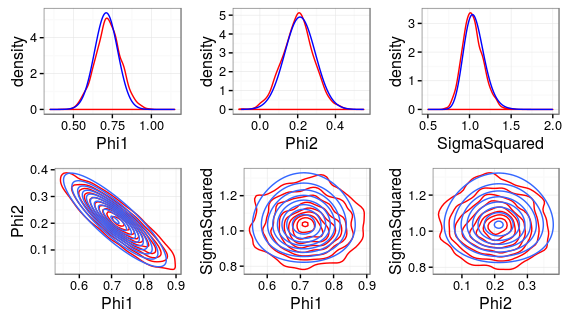
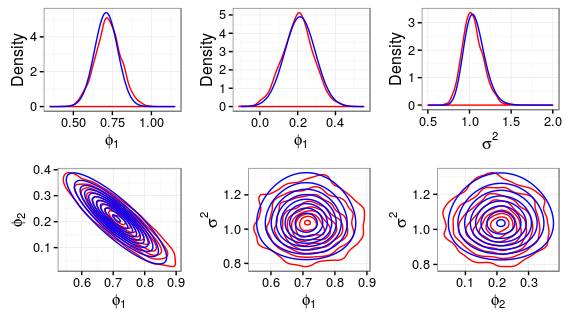
final tweaks before draft submission

diff --git a/Confirmation/confirmation_V2.tex b/Confirmation/confirmation_V2.tex
@@ -96,7 +96,7 @@ There are many types of MCMC algorithms, with arguably the simplest and most com
 &\vdots \nonumber \\
 &p(\theta_k | \theta_1, \dots, \theta_{k-1}, y_{1:T}). \nonumber
 \end{align}
-Under mild regularity conditions (see, e.g., \citet{Tierney1994}) and with enough iterations of the Markov chain that results from the Gibbs sampler, these samples converge in distribution to $p(\boldsymbol{\theta} | y_{1:T})$ and can be used for forecasting and inference about the unknown parameters. The computation time for each iteration and the overall number of iterations required to accruately summarise the posterior distribution is problem specific and typically increases with the number of parameters in the model. On occasion, the full conditional distribution can not be recognised and a Metropolis-Hastings-within-Gibbs step can be used, see \citet{Gilks1995} for details.
+Under mild regularity conditions (see, e.g., \citet{Tierney1994}) and with enough iterations of the Markov chain that results from the Gibbs sampler, these samples converge in distribution to $p(\boldsymbol{\theta} | y_{1:T})$. Samples taken before the MCMC converges ot the posterior must be discarded, and the remaining samples may have strong dependence between consecutive draws of the same parameter due to the Markov nature of the algorithm. The computation time for each iteration and the overall number of iterations required to accruately summarise the posterior distribution is problem specific and typically increases with the number of parameters in the model. On occasion, the full conditional distribution can not be recognised and a Metropolis-Hastings-within-Gibbs step can be used, see \citet{Gilks1995} for details.
 
 For illustration, consider data $y_t$ for $t = 1, \dots, T$ generated independently from a $\mathcal{N}(\mu, \sigma^2)$ distribution with prior distributions given by $\mu | \sigma^2 \sim \mathcal{N}(\gamma, \sigma^2/\tau)$ and $\sigma^2 \sim Inv.Gamma(\mbox{shape} = \alpha, \mbox{scale =}\beta)$. It can be shown that
 
@@ -172,12 +172,12 @@ $\tilde{\gamma}$ and $\tilde{\alpha}$ are omitted from the mean field equations 
 As (\ref{mf9}) and (\ref{mf10}) contain a circular dependence, fitting the MFVB approximation requires an algorithm that cycles between these equations until the change in the ELBO is less than some pre-specified small constant $\epsilon$. This algorithm is known as a coordiant ascent, and is described by Algorithm (\ref{alg:algorithm1}). At each step coordinate ascent will fix one parameter and then maximise the ELBO with respect to the other parameter, so that changes in parameters results in a non-decreasing sequence of ELBO values. Coordinate ascent converges only when neither parameter can be changed independently to increase the ELBO by more than $\epsilon$, and hence reaches a local maximum.
 The current theory for Variational Bayes does not offer any insight to the shape of the ELBO so determining if the algorithm converges to a local or global maximum is difficult. One option to alleiviate this problem is to start the algorithm at a range of initial values and choose parameter values with the maximum converged ELBO, and hence lowest KL divergence to the true posterior. 
 
-Figure (\ref{fig:norminvg}) compares the simulated posterior densities from Section (\ref{sec:MCMC}), (red) with the approximation from Mean Field Variational Bayes (blue) and the analytically available true posterior marginal densities (black). For both parameters all three densities are indistinguishable.
+Data was simulated according to the Gaussian model introduced in Section (\ref{sec:MCMC}) with $T = 100, \mu = 2 and \sigma^2 = 1$. The hyperparameters were set to $\gamma = 0, \tau = 1, \alpha = 1$ and $\beta = 1$. Figure (\ref{fig:norminvg}) compares the analytically available true posterior marginal densities for both $\mu$ and $\sigma^2$ (black) with the densities generated by the Monte Carlo sampler (red) and the approximation from Mean Field Variational Bayes (blue). For both parameters all three densities are indistinguishable.
 
 \begin{figure}[h]
 \centering
-\includegraphics[width=0.5\linewidth,height=\textheight,keepaspectratio]{norminvg}
-\caption{Marginal posterior densities for the model described in Section (\ref{sec:MCMC}). The true density is in black, the Monte Carlo simulation is red and the MFVB approximation is blue. Both MCMC and MFVB fit this density extremely well.}
+\includegraphics[width=0.7\linewidth,height=\textheight,keepaspectratio]{norminvg}
+\caption{Marginal posterior densities for the model described in Section (\ref{sec:MCMC}). The true density is in black, the Monte Carlo sampler is red and the MFVB approximation is blue. Both MCMC and MFVB fit this density extremely well.}
 \label{fig:norminvg}
 \end{figure}
 
@@ -274,34 +274,14 @@ p(\theta_1, \dots, \theta_k) = p(\theta_1) \dots p(\theta_k) c(P(\theta_1), \dot
 \end{equation}
 where $p(\theta)$ is a pdf, $P(\theta)$ is a cdf, and $c(\cdot)$ is a copula. 
 
-This idea is extended by the vine copula, a technique to factorise a high-dimensional copula into a set of bivariate copulas, see \citet{Joe2014} and references within. A vine copula is represented by a series of trees, where the top-most tree is a graph that contains each variable as a node. The edges in each tree then form the nodes in the tree below, which are connect by an edge only if the associated edges in the previous tree connected to the same node. This sequence is continued or a $k$ dimensional $\boldsymbol{\theta}$ until the $(k-1)'th$ tree is reached that contains only one edge. Each of the $k(k-1)/2$ edges represents a bivariate copula between the two unique parameters in the connected nodes, conditioned on every parameter appearing in both nodes. Refer to Figure (\ref{fig:vinecop}) for an example.
+This idea is extended by the vine copula, a technique to factorise a high-dimensional copula into a set of bivariate copulas, see \citet{Joe2014} and references within. A vine copula is represented by a series of trees, where the top-most tree is a graph that contains each variable as a node. The edges in each tree then form the nodes in the tree below, which are connected by an edge only if the associated edges in the previous tree shared the same node. This sequence is continued or a $k$ dimensional $\boldsymbol{\theta}$ until the $(k-1)'th$ tree is reached that contains only one edge. Each of the $k(k-1)/2$ edges represents a bivariate copula between the two unique parameters in the connected nodes, conditioned on every parameter appearing in both nodes. Refer to Figure (\ref{fig:vinecop}) for an example.
 
-\iffalse
 \begin{figure}[h]
 \centering
-\tikz{ %
-    \node[latent] (theta1) {$\theta_1$} ; %
-    \node[latent, right = of theta1] (theta2) {$\theta_2}$} ; %
-    \node[latent, above = of theta2] (theta3) {$\theta_3$} ; %
-    \node[latent, below = of theta2] (theta4) {$\theta_4$} ; %
-    \edge{theta1} {theta2} ; %
-    \edge{theta2} {theta3} ; %
-    \edge{theta2} {theta4} ; %
-    
-    \node[latent, below = of theta4] (theta2theta3) {$\theta_2 \theta_3$} ; %
-    \node[latent, left = of theta2theta3] (theta1theta2) {$\theta_1 \theta_2$} ; %
-    \node[latent, right = of theta2theta3] (theta2theta4) {$\theta_2 \theta_4$} ; %
-    \edge{theta2theta3} {theta1theta2} ; %
-    \edge{theta2theta3} {theta2theta4} ; %
-    
-    \node[latent, below = of theta1theta2] (t1t3t2) {$\theta_1 \theta_3 | \theta_2$} ; %
-    \node[latent, right = of t1t3t2] (t3t4t2) {$\theta_3 \theta_4 | \theta_2$} ; %
-    \edge{t1t3t2} {t3t4t2} ;%
-}
-\caption{An example of a Vine Copula over four variables. The edges in the top tree contains unconditional bivariate copulas between the parameters on the connected nodes. The second tree contains the bivariate copulas for $\theta_1 \theta_3 | \theta_2$ and for $\theta_3 \theta_4 | \theta_2$, the conditioning on $\theta_2$ caused by its appearance in each connected node. The edge in the final tree contains the bivariate copula for $\theta_1, \theta_4 | \theta_2, \theta_3$, as both $\theta_2$ and $\theta_3$ appear in the connected nodes.
+\includegraphics[width=0.4\linewidth,height=\textheight,keepaspectratio]{vines.png}
+\caption{An example of a Vine Copula over four variables. The edges in the top tree represent unconditional bivariate copulas between the parameters on the connected nodes. The second tree edges represent the bivariate copulas for $\theta_1 \theta_3 | \theta_2$ and for $\theta_3 \theta_4 | \theta_2$, the conditioning on $\theta_2$ caused by its appearance in each connected node. The edge in the final tree represents the bivariate copula for $\theta_1, \theta_4 | \theta_2, \theta_3$, as both $\theta_2$ and $\theta_3$ appear in the connected nodes.}
 \label{fig:vinecop}
 \end{figure}
-\fi
 
 The resulting vine copula greatly increases the amount of flexibility available to model dependency in a distribution, but the cardinality of the set of possible vine structures and choices of family for each bivariate copula is exponential in the number of parameters, so without detailed problem specific information the application of a vine copula to Stochastic Variational Bayes is difficult. \citet{Tran2015} implements Variational Bayes with a vine copula in what they call Copula Variational Bayes, but the dimension of $\boldsymbol{\theta}$ was small in that case allowing an exhaustive search for the vine copula that maximised the ELBO. 
 
@@ -328,7 +308,8 @@ The likelihood of parameters $\boldsymbol{\theta} = (\phi_1, \phi_2, \sigma^2)'$
 \begin{align}
 \label{likelihood}
 L(\theta | y_{1:T}) &= p(y_1, y_2 | \theta) \prod_{t=3}^{T}p(y_t | y_{1:t-1}, \theta) \nonumber \\
-&= \frac{1}{(2\pi)} |\Sigma|^{-1/2} \sigma^{-(T-2)} \exp \left\{ \frac{-1}{2} \left( (y_1, y_2)' \Sigma^{-1} (y_1, y_2) + \frac{1}{\sigma^2} \sum_{t=3}^{T}(y_t - \phi_1 y_{t-1} - \phi_2 y_{t-2})^2 \right) \right\}.
+&= \frac{1}{(2\pi)} |\Sigma|^{-1/2} \sigma^{-(T-2)} \exp \left\{ \frac{-1}{2} (y_1, y_2) \Sigma^{-1} (y_1, y_2)' \right\} \nonumber \\
+&\times \exp \left\{ \frac{-1}{2\sigma^2} \left( \sum_{t=3}^{T}(y_t - \phi_1 y_{t-1} - \phi_2 y_{t-2})^2 \right) \right\}.
 \end{align}
 
 We assume that the prior distribution, is given by
@@ -451,7 +432,7 @@ The benefits of rapidly updating parameters will be increased in situations wher
 
 A contribution of this thesis is the use of information generated by MCMC to develop a Vine Copula used by the approximating distribution in Stochastic Variational Bayes, but updating state-space models by SVB requires an approximation for latent states associated with newly observed data that have not been included in the most recent MCMC sample. In this case, the dependence for the new latent state must be extrapolated from the copula structure used for previous latent states, which may be sub-optimal. The robustness of SVB approximations to mis-specified paramater dependence should be investigated.
 
-Finally, Variational Bayes only becomes a viable method for forecast densities if the statistical error associated with using an approximate distribution is less than the statistical error associated with forecasting based on the MCMC generated posterior distribution that is not conditioned on the most recent data.
+Finally, Variational Bayes only becomes a viable method for density forecasts if the statistical error associated with using an approximate distribution is less than the statistical error associated with forecasting based on an MCMC generated posterior distribution that is not conditioned on the most recent data. The investigation of this trade-off is of central importance to the thesis. 
 
 \section{Timeline} \label{sec:Timeline}
 

diff --git a/Confirmation/vines.tex b/Confirmation/vines.tex
@@ -1,0 +1,86 @@
+\documentclass[12pt,a4paper]{article}%
+\usepackage[]{graphicx}\usepackage[]{color}
+%% maxwidth is the original width if it is less than linewidth
+%% otherwise use linewidth (to make sure the graphics do not exceed the margin)
+
+%2multibyte Version: 5.50.0.2960 CodePage: 1252
+\usepackage{amsfonts}
+\usepackage{amssymb}
+\usepackage[centertags]{amsmath}
+\usepackage{graphicx}%
+\usepackage{natbib}
+\usepackage{color}
+\usepackage[dvipsnames,svgnames*]{xcolor}
+\usepackage{array}
+\usepackage[hidelinks]{hyperref}
+\usepackage[font=small,skip=5pt]{caption}
+\usepackage[aboveskip=2pt]{subcaption}
+\usepackage{amsmath}
+\usepackage[]{algorithm2e}
+\usepackage{amsthm}
+\usepackage{url}
+\usepackage{wasysym}
+\usepackage{ulem}
+\usepackage{tikz}
+\usetikzlibrary{bayesnet}
+\usepackage{afterpage}
+\usepackage{bbm}
+\setcounter{MaxMatrixCols}{30}
+\providecommand{\U}[1]{\protect\rule{.1in}{.1in}}
+\newtheorem{theorem}{Theorem}
+\newtheorem{acknowledgement}[theorem]{Acknowledgement}
+\newtheorem{axiom}[theorem]{Axiom}
+\newtheorem{case}[theorem]{Case}
+\newtheorem{claim}[theorem]{Claim}
+\newtheorem{conclusion}[theorem]{Conclusion}
+\newtheorem{condition}[theorem]{Condition}
+\newtheorem{conjecture}[theorem]{Conjecture}
+\newtheorem{corollary}[theorem]{Corollary}
+\newtheorem{criterion}[theorem]{Criterion}
+\newtheorem{definition}[theorem]{Definition}
+\newtheorem{example}[theorem]{Example}
+\newtheorem{exercise}[theorem]{Exercise}
+\newtheorem{lemma}[theorem]{Lemma}
+\newtheorem{notation}[theorem]{Notation}
+\newtheorem{problem}[theorem]{Problem}
+\newtheorem{proposition}[theorem]{Proposition}
+\newtheorem{remark}[theorem]{Remark}
+\newtheorem{solution}[theorem]{Solution}
+\newtheorem{summary}[theorem]{Summary}
+\setlength{\topmargin}{0in}
+\setlength{\oddsidemargin}{0.1in}
+\setlength{\evensidemargin}{0.1in}
+\setlength{\textwidth}{6.5in}
+\setlength{\textheight}{8.25in}
+\numberwithin{equation}{section}
+\title{Real Time Variational Density Forecasting}
+\author{Nathaniel Tomasetti, Catherine Forbes and Anastasios Panagiotelis}
+\begin{document}
+
+\begin{figure}[h]
+\centering
+\tikz{ %
+    \node[latent] (theta1) {$\theta_1$} ; %
+    \node[latent, right = of theta1] (theta2) {$\theta_2$} ; %
+    \node[latent, right = of theta2] (theta3) {$\theta_3$} ; %
+    \node[latent, below = of theta2] (theta4) {$\theta_4$} ; %
+    \edge [-] {theta1, theta3, theta4}  {theta2} ; %
+    %\edge{theta2} {theta3} ; %
+    %\edge{theta2} {theta4} ; %
+    
+    \node[latent, below = of theta4] (theta2theta3) {$\theta_2 \theta_3$} ; %
+    \node[latent, left = of theta2theta3] (theta1theta2) {$\theta_1 \theta_2$} ; %
+    \node[latent, right = of theta2theta3] (theta2theta4) {$\theta_2 \theta_4$} ; %
+    \edge [-] {theta1theta2, theta2theta4} {theta2theta3} ; %
+    %\edge{theta2theta3} {theta2theta4} ; %
+    
+    \node[latent, below = of theta1theta2] (t1t3t2) {$\theta_1 \theta_3 | \theta_2$} ; %
+    \node[latent, below = of theta2theta4] (t3t4t2) {$\theta_3 \theta_4 | \theta_2$} ; %
+    \edge [-] {t1t3t2} {t3t4t2} ;%
+    
+    \node[latent, below = of t1t3t2] (all) {$\theta_1, \theta_4 | \theta_2, \theta_3$} ; %
+}
+\end{figure}
+
+
+\end{document}
